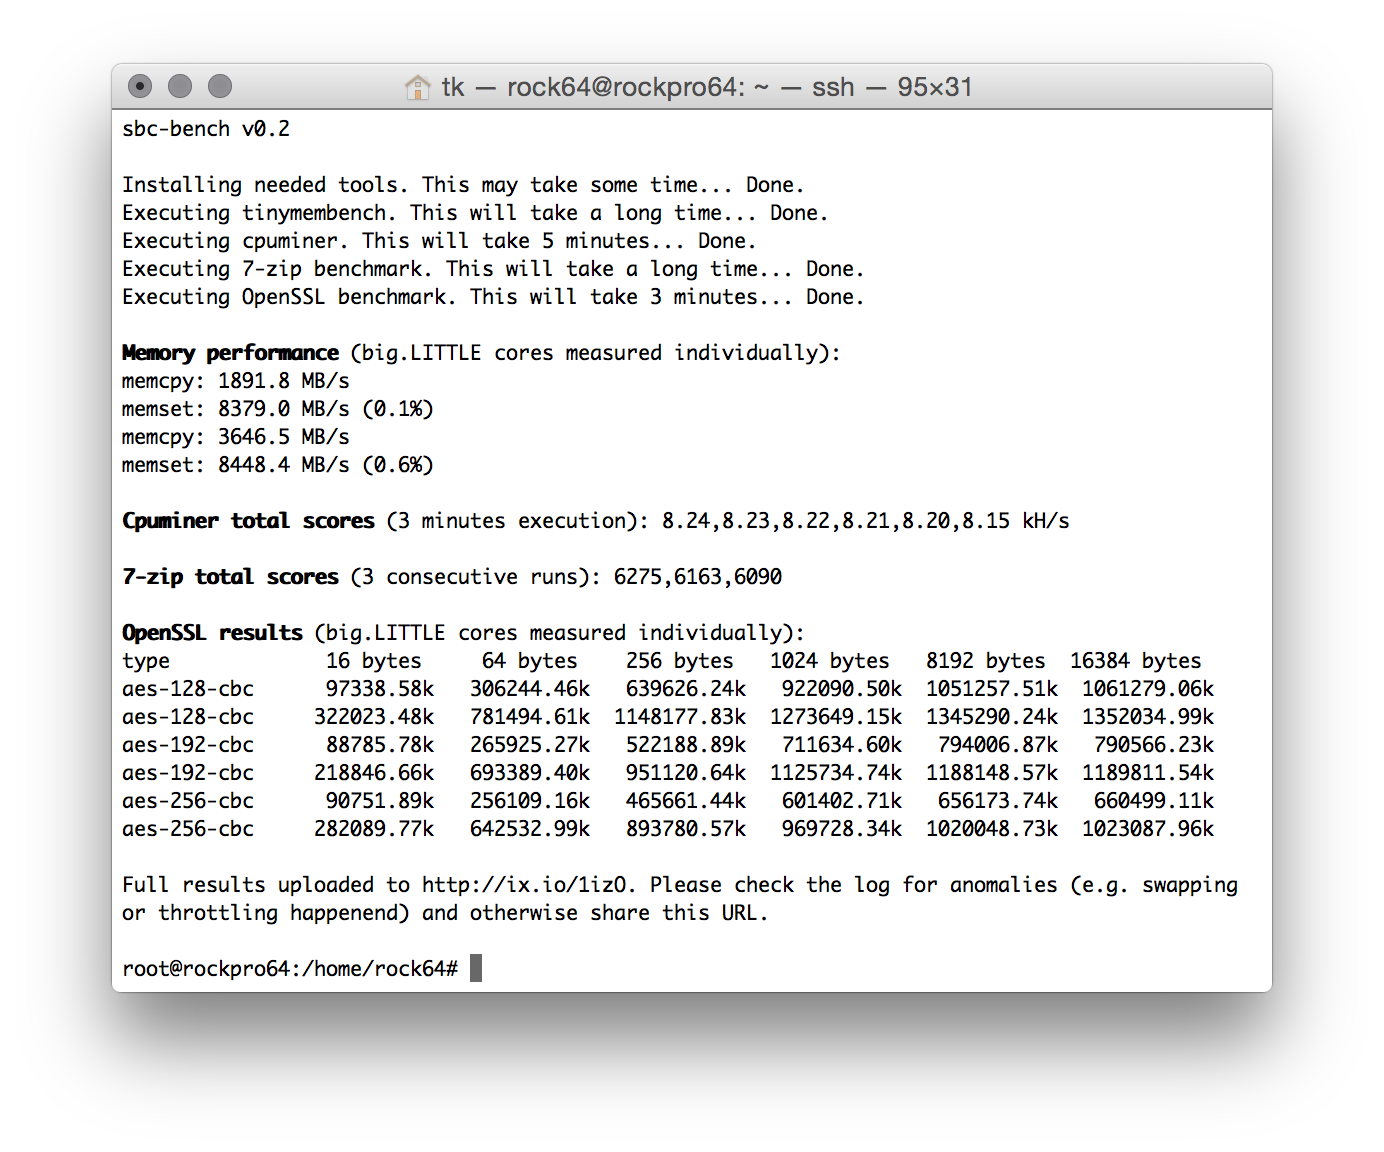
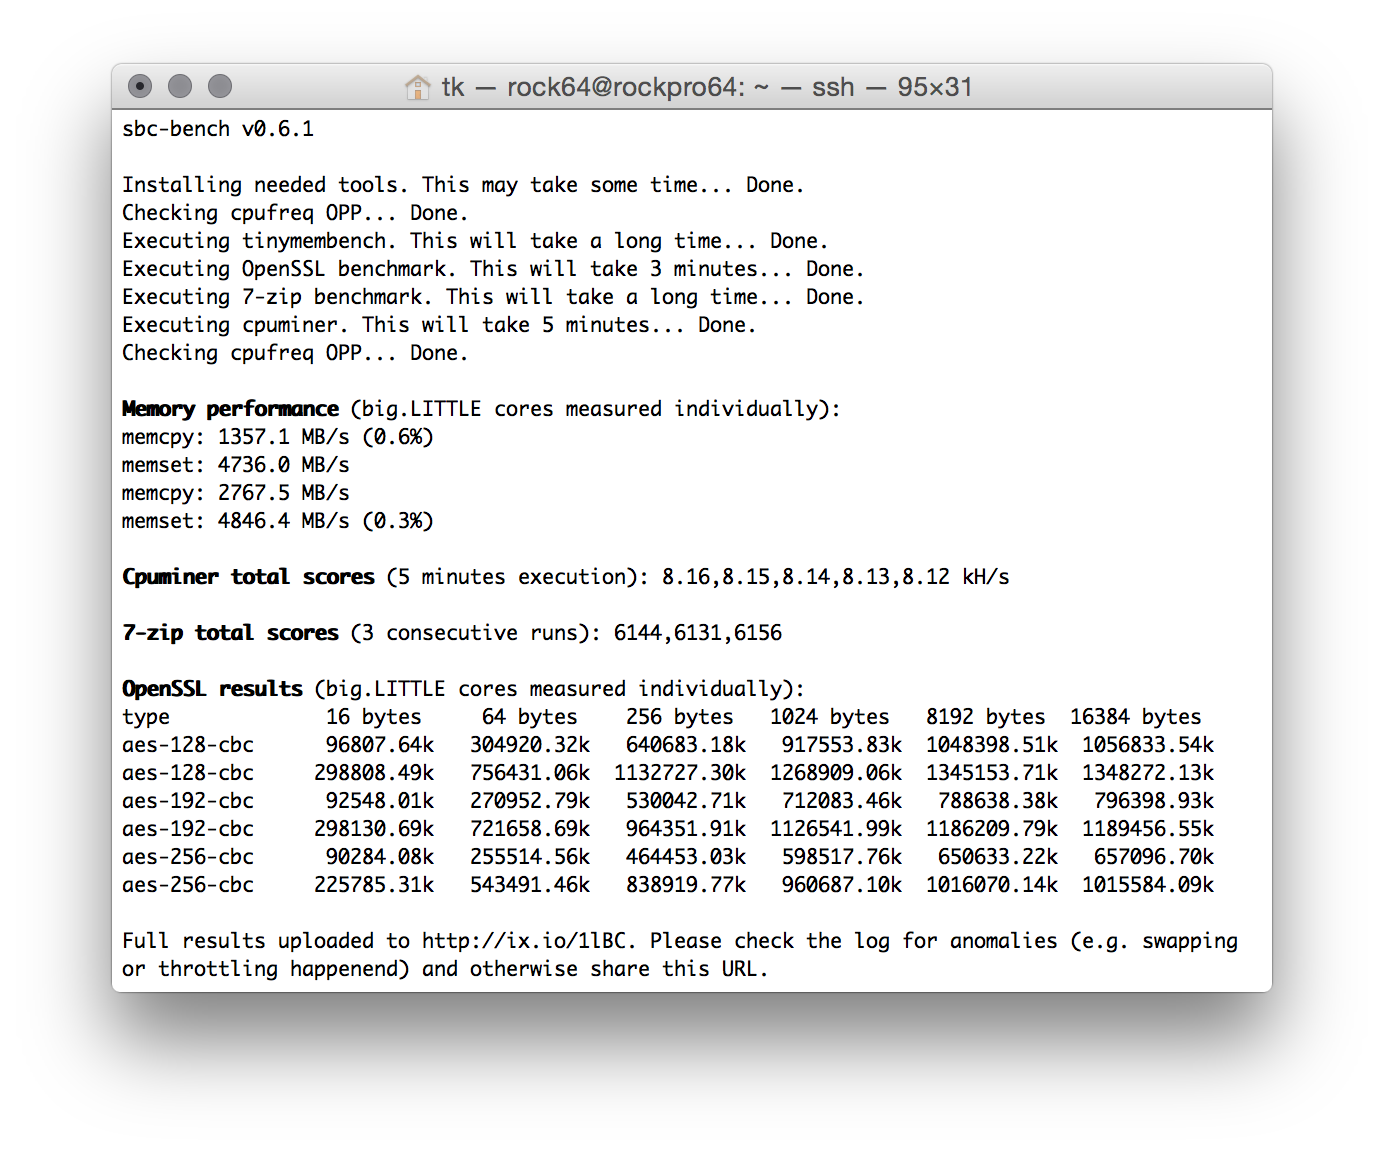
README update

Changed region(s): [[0.0932, 0.1562, 0.901, 0.875], [0.6525, 0.5, 0.7146, 0.5312]]

diff --git a/README.md b/README.md
@@ -1,13 +1,15 @@
 # sbc-bench
 
-![](pics/rock64-no-throttling.png)
+![](pics/rockpro64-no-throttling.png)
 
 This small set of different CPU performance tests focuses on 'headless' operation only (no GPU/display stuff, no floating point number crunching). Unlike many other 'kitchen-sink benchmarks' it tries to produce insights instead of fancy graphs.
 
-It has two **entirely different** usage modes:
+It has four **entirely different** usage modes:
 
 * Generate a rough CPU performance assessment for a specific SBC *in general* (under ideal conditions)
 * Show whether an *individual* SBC is able to perform the same and if not hopefully answering the question 'why?'
+* Help software developers and hardware designers to improve 'thermal performance' when using the `-t` and/or `-T` switches ([details/discussion](https://forum.armbian.com/topic/7819-sbc-bench/?do=findComment&comment=60873))
+* Provide basic CLI monitoring functionality through the `-m` switch
 
 The SoCs (system-on-chip) used on today's SBC are that performant that heat dissipation when running full load for some time becomes an issue. The strategies to deal with the problem differ by platform and kernel. We've seen CPU cores being shut down when overheating (Allwinner boards running with original Allwinner software), we know platforms where throttling works pretty well but by switching to a different kernel performance is trashed on exactly the same hardware. Sometimes it's pretty easy to spot what's going on, sometimes vendors cheat on us and it takes some efforts to get a clue what's really happening.
 
@@ -18,7 +20,7 @@ This tool therefore focuses on a controlled environment and intensive monitoring
 You need an armhf or arm64 Debian Stretch or Ubuntu Bionic install. Older variants are not supported (due to distro packages being way too outdated). Then it's
 
     wget https://raw.githubusercontent.com/ThomasKaiser/sbc-bench/master/sbc-bench.sh
-    sudo /bin/bash ./sbc-bench.sh neon
+    sudo /bin/bash ./sbc-bench.sh -c
 
 Unfortunately to adjust the cpufreq governor and to collect monitoring data execution as root is needed. So do **not** run this on productive systems or if you don't understand what the script is doing.
 
@@ -61,9 +63,9 @@ On ARM SoCs CPU and GPU/VPU usually share memory access so it's worth a try to e
 
 ### [cpuminer](https://github.com/tkinjo1985/cpuminer-multi.git)
 
-This is the most demanding benchmark of the four and pretty efficient to check for appropriate heat dissipation and even instabilities under load. It makes heavy use of NEON optimizations therefore generating more heat than unoptimized 'standard' code.
+This is the most demanding benchmark of the four and pretty efficient to check for appropriate heat dissipation and even instabilities under load. It makes heavy use of [SIMD optimizations](https://en.wikipedia.org/wiki/SIMD) (NEON on ARM and SSE on x86) therefore generating more heat than unoptimized 'standard' code.
 
-Heavy NEON optimizations aren't really common and therefore this test is optional. Unless you execute `sbc-bench neon` it will be skipped since results can be misleading. So consider this being a load generator to check whether your board will start to throttle or becomes unstable but take the benchmark numbers with a grain of salt unless you're a programmer and know what [NEON](https://en.wikipedia.org/wiki/ARM_architecture#Advanced_SIMD_(NEON)) really is and whether your application can make use of.
+Heavy SIMD optimizations aren't really common and therefore this test is optional. Unless you execute `sbc-bench -c` it will be skipped since results can be misleading. So consider this being a load generator to check whether your board will start to throttle or becomes unstable but take the benchmark numbers with a grain of salt unless you're a programmer and know what [NEON](https://en.wikipedia.org/wiki/ARM_architecture#Advanced_SIMD_(NEON)) or [SSE](https://en.wikipedia.org/wiki/Streaming_SIMD_Extensions) really are and whether your application can make use of.
 
 A typical result (Rock64 with Armbian/Stretch) will look like this:
 
@@ -73,7 +75,7 @@ A typical result (Rock64 with Armbian/Stretch) will look like this:
 
 ### [7-zip](https://www.7-cpu.com)
 
-7-zip's internal benchmark mode is a pretty good representation of 'server workloads in general'. It doesn't utilize CPU cores fully (at least not on ARM, on Intel with Hyperthreading it's a different story) and it depends somewhat on memory performance and amount of available memory. When running fully parallel on systems that have many cores but are low on memory we see just as in reality the kernel either killing processes due to 'out of memory' or starting to swap if configured.
+7-zip's internal benchmark mode is a pretty good representation of 'server workloads in general'. It doesn't utilize CPU cores fully (at least not on ARM, on Intel with Hyperthreading it's a different story) and it depends somewhat on memory performance (low latency more important than high bandwidth) and amount of available memory. When running fully parallel on systems that have many cores but are low on memory we see just as in reality the kernel either killing processes due to 'out of memory' or starting to swap if configured.
 
 On big.LITTLE systems we start with one run pinned to a little core followed by one pinned to a big core. Then follow 3 consecutive runs using all available cores. The results might look like this:
 
@@ -174,7 +176,7 @@ In this case we were able to spot some background activity in this line:
 
 Depending on settings (kernel or some 'firmware' controlling the hardware) the clockspeeds might be dynamically reduced when the SoC starts to overheat. When clockspeeds are reduced then this obviously slows down operation.
 
-`sbc-bench` continually monitors the clockspeeds but since we can only query every few seconds we might not catch short clockspeed decreases. That's why we check whether the kernel's cpufreq driver supports statistics. If true we record contents of `stats/time_in_state` prior to and after benchmark execution and compare afterwards. This way we are able to detect even short amounts of downclocking which will result in a warning like this: **ATTENTION: Throttling occured. Check the uploaded log for details.**
+`sbc-bench` continually monitors the clockspeeds but since we can only query every few seconds we might not catch short clockspeed decreases. That's why we check whether the kernel's cpufreq driver supports statistics. If true we record contents of `stats/time_in_state` prior to and after benchmark execution and compare afterwards. This way we are able to detect even short amounts of downclocking which will result in a warning like this: **ATTENTION: Throttling occured. Check the log for details.**
 
 The detailed log then will contain information how much time (in milliseconds) has been spent on which clockspeed while executing the benchmarks. Might look like this on a NanoPC T4 without fan (only vendor's heatsink) after running the full set (NEON test included which resulted in the big cluster clocking down to even 408 MHz):
 

diff --git a/Results.md b/Results.md
@@ -51,7 +51,7 @@ So do **not** rely on collected numbers unless you carefully read through all th
 | [Rock64](https://www.armbian.com/rock64/) | 1400 MHz | 4.4 | Stretch arm64 | 3590 | 95000 | 643700 | 1320 | 5640 | 4.40 | [http://ix.io/1iZj](http://ix.io/1iZj) |
 | [Rock64](https://www.armbian.com/rock64/) | 1400 MHz | 4.4 | Stretch arm64 | 3580 | 94800 | 644380 | 1330 | 5680 | 4.63 | [http://ix.io/1iYK](http://ix.io/1iYK) |
 | [Rock64](https://www.armbian.com/rock64/) | 1400 MHz | 4.4 | Stretch **armhf** | 3620 | 99400 | 624000 | 1430 | 3620 | - | [http://ix.io/1iwz](http://ix.io/1iwz) |
-| [RockPro64](http://wiki.pine64.org/index.php/ROCKPro64_Main_Page) | 1800/1400 MHz | 4.4 | Stretch arm64 | 6140 | 236800 | 1016050 | 2790 | 4850 | - | [http://ix.io/1ivR](http://ix.io/1ivR) |
+| [RockPro64](http://wiki.pine64.org/index.php/ROCKPro64_Main_Page) | 1800/1400 MHz | 4.4 | Stretch arm64 | 6140 | 298800 | 1015600 | 2770 | 4850 | 8.14 | [http://ix.io/1lBC](http://ix.io/1lBC) |
 | [RockPro64](http://wiki.pine64.org/index.php/ROCKPro64_Main_Page) | 1800/1400 MHz | 4.4 | Stretch **armhf** | 6250 | 275000 | 1000150 | 2000 | 4835 | - | [http://ix.io/1iFZ](http://ix.io/1iFZ) |
 | [RockPro64](http://wiki.pine64.org/index.php/ROCKPro64_Main_Page) | 1800/1400 MHz | 4.18 | Stretch arm64 | 6300 | 237700 | 1021500 | 3650 | 8450 | 8.20 | [http://ix.io/1iFp](http://ix.io/1iFp) |
 | [Tinkerboard](https://www.armbian.com/tinkerboard/) | 1730 MHz | 4.14 | Stretch armhf | 5350 | 63150 | 66600 | 1480 | 3900 | - | [http://ix.io/1iSX](http://ix.io/1iSX) |
